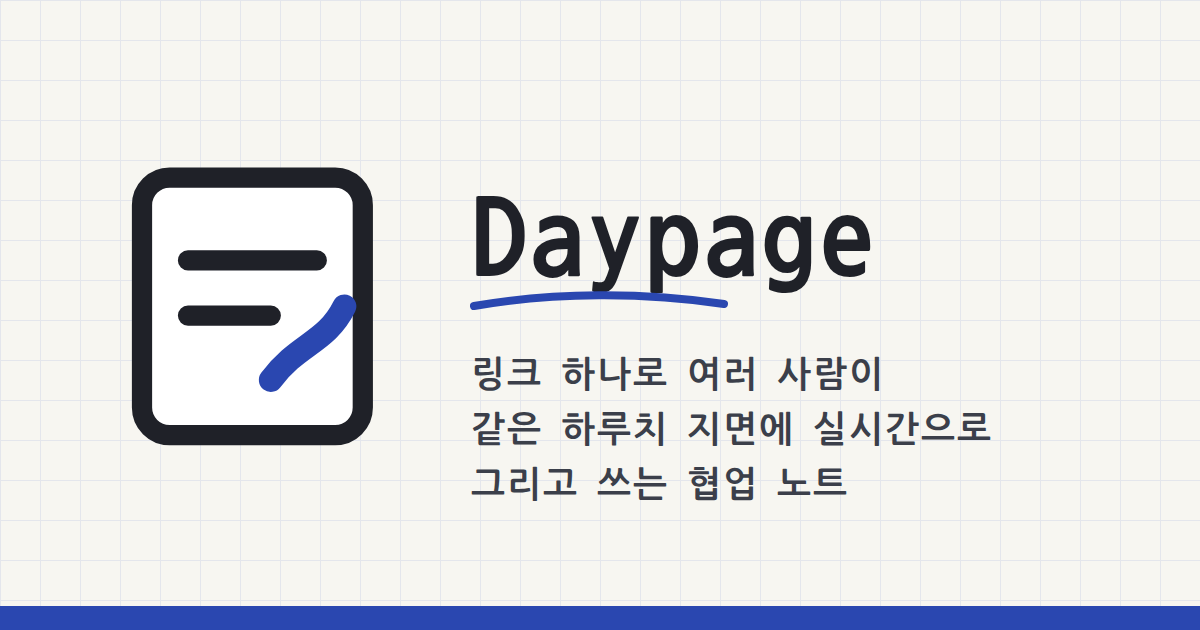
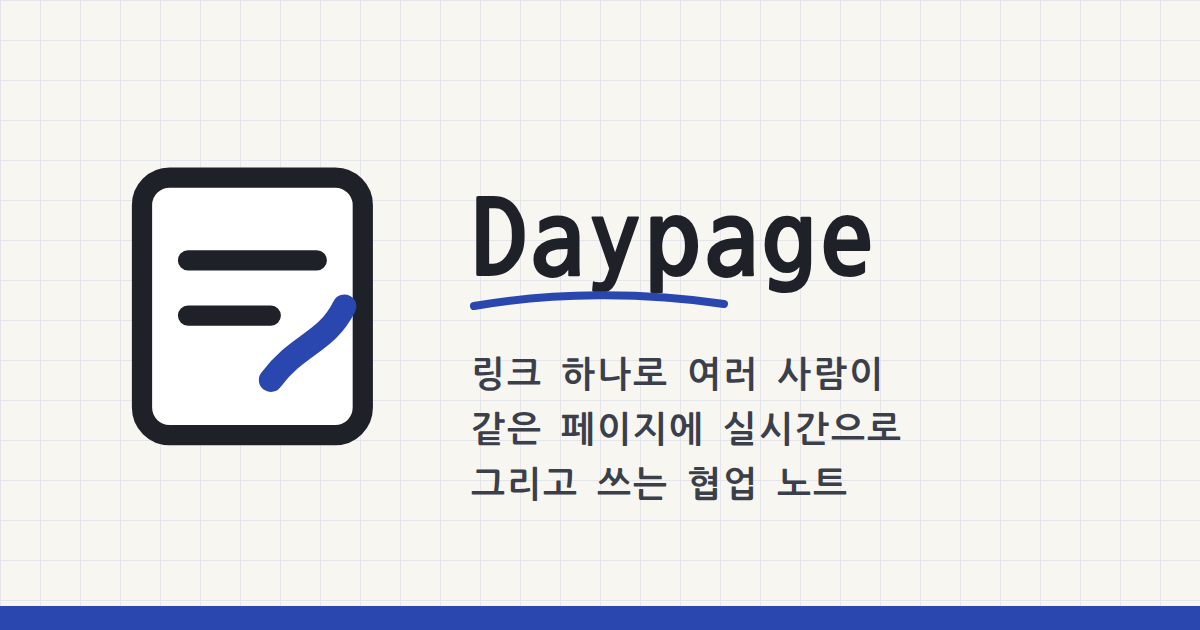
fix: 공유 카드 문구 「하루치 지면」→「페이지」 (#71) (#72)
메타 설명·og/twitter 설명·og:image:alt와 카드 이미지를 「같은 페이지에」로 바꾸고 PNG를 다시 만든다(1200×630).
시험이 문구 값을 확인한다.

Closes #71

Changed region(s): [[0.4625, 0.6333, 0.8325, 0.7238]]

diff --git a/frontend/index.html b/frontend/index.html
@@ -19,20 +19,20 @@
     />
     <title>Daypage</title>
     <!-- 링크 공유 카드. 모든 경로가 이 파일을 받으므로 공유 노트 링크에도 일반 문구만 나간다(노트 제목·내용은 넣지 않는다). -->
-    <meta name="description" content="링크 하나로 여러 사람이 같은 하루치 지면에 실시간으로 그리고 쓰는 협업 노트" />
+    <meta name="description" content="링크 하나로 여러 사람이 같은 페이지에 실시간으로 그리고 쓰는 협업 노트" />
     <meta property="og:type" content="website" />
     <meta property="og:site_name" content="Daypage" />
     <meta property="og:locale" content="ko_KR" />
     <meta property="og:url" content="https://daypage.sandcorp.co.kr/" />
     <meta property="og:title" content="Daypage" />
-    <meta property="og:description" content="링크 하나로 여러 사람이 같은 하루치 지면에 실시간으로 그리고 쓰는 협업 노트" />
+    <meta property="og:description" content="링크 하나로 여러 사람이 같은 페이지에 실시간으로 그리고 쓰는 협업 노트" />
     <meta property="og:image" content="https://daypage.sandcorp.co.kr/og-image.png" />
     <meta property="og:image:width" content="1200" />
     <meta property="og:image:height" content="630" />
-    <meta property="og:image:alt" content="Daypage — 링크 하나로 여러 사람이 같은 하루치 지면에 실시간으로 그리고 쓰는 협업 노트" />
+    <meta property="og:image:alt" content="Daypage — 링크 하나로 여러 사람이 같은 페이지에 실시간으로 그리고 쓰는 협업 노트" />
     <meta name="twitter:card" content="summary_large_image" />
     <meta name="twitter:title" content="Daypage" />
-    <meta name="twitter:description" content="링크 하나로 여러 사람이 같은 하루치 지면에 실시간으로 그리고 쓰는 협업 노트" />
+    <meta name="twitter:description" content="링크 하나로 여러 사람이 같은 페이지에 실시간으로 그리고 쓰는 협업 노트" />
     <meta name="twitter:image" content="https://daypage.sandcorp.co.kr/og-image.png" />
   </head>
   <body>

diff --git a/frontend/og/ogCard.test.ts b/frontend/og/ogCard.test.ts
@@ -32,6 +32,11 @@ describe('링크 공유 카드 메타', () => {
     expect(metaContent('name', 'twitter:card')).toBe('summary_large_image')
     expect(metaContent('property', 'og:image:width')).toBe('1200')
     expect(metaContent('property', 'og:image:height')).toBe('630')
+    const copy = '링크 하나로 여러 사람이 같은 페이지에 실시간으로 그리고 쓰는 협업 노트'
+    expect(metaContent('name', 'description')).toBe(copy)
+    expect(metaContent('property', 'og:description')).toBe(copy)
+    expect(metaContent('name', 'twitter:description')).toBe(copy)
+    expect(metaContent('property', 'og:image:alt')).toBe(`Daypage — ${copy}`)
   })
 
   test('모든 경로가 같은 HTML을 받으므로 노트별 값(제목·내용·링크)은 메타에 없다', () => {
